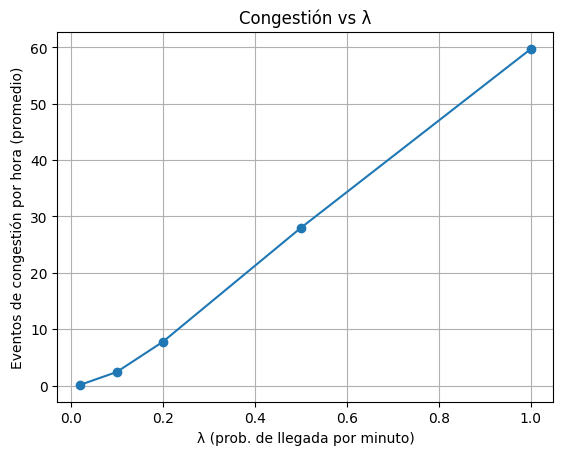
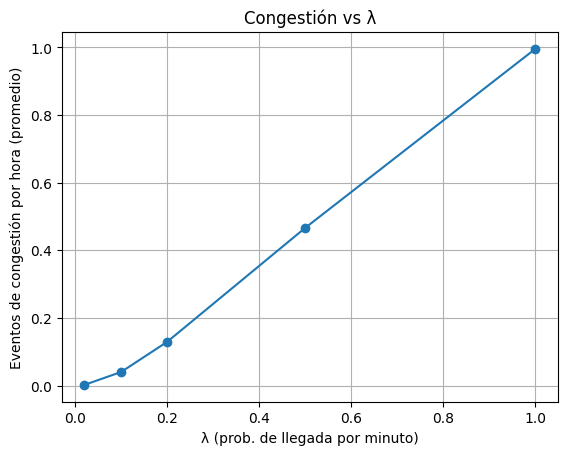
mini_Cambio

diff --git a/calcular_proba.py b/calcular_proba.py
@@ -37,7 +37,7 @@ print("exacta:",res2, "nuestra:" ,res1)
 #
 #
 def se_mean(x):
-    x = np.asarray(x).ravel()
+    x = np.asarray(x).ravel() /60
     n = x.size
     mean = x.mean()
     se = x.std(ddof=1) / math.sqrt(n) if n > 1 else float("nan")
@@ -92,7 +92,9 @@ def main():
         total_cong = C_f.sum()
         total_mvd = M_f.sum()
 
+        # ¿Aumenta λ la frecuencia de congestiones? ¿Se ve gráficamente?
         p_cong_per_detect, se_cong_per_detect, n_cd = se_prop(total_cong, total_detect)
+        
         p_mvd_per_detect, se_mvd_per_detect, n_md = se_prop(total_mvd, total_detect)    
 
         rows.append(dict(
@@ -132,7 +134,7 @@ def main():
     plt.figure()
     plt.plot(df["lambda_"], df["mean_congestion_hora"], marker="o")
     plt.xlabel("λ (prob. de llegada por minuto)")
-    plt.ylabel("Eventos de congestión por hora (promedio)")
+    plt.ylabel("'%'de minutos con congestión")
     plt.title("Congestión vs λ")
     plt.grid(True)
     plt.savefig("plots/plot_congestion_vs_lambda.png", bbox_inches="tight")
